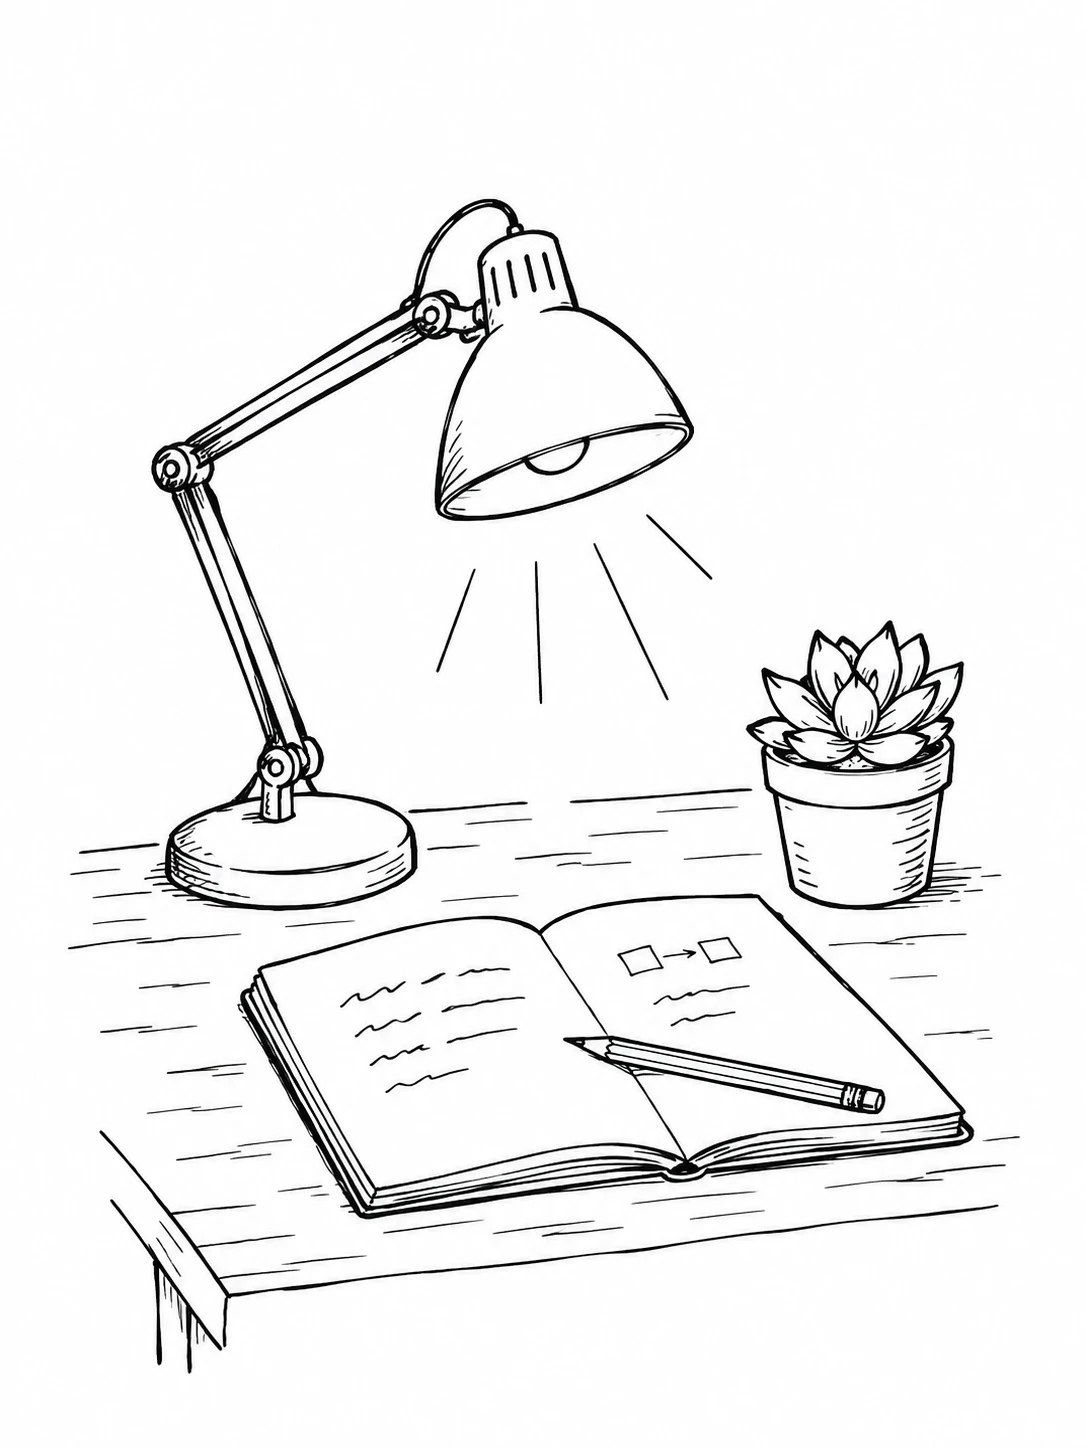
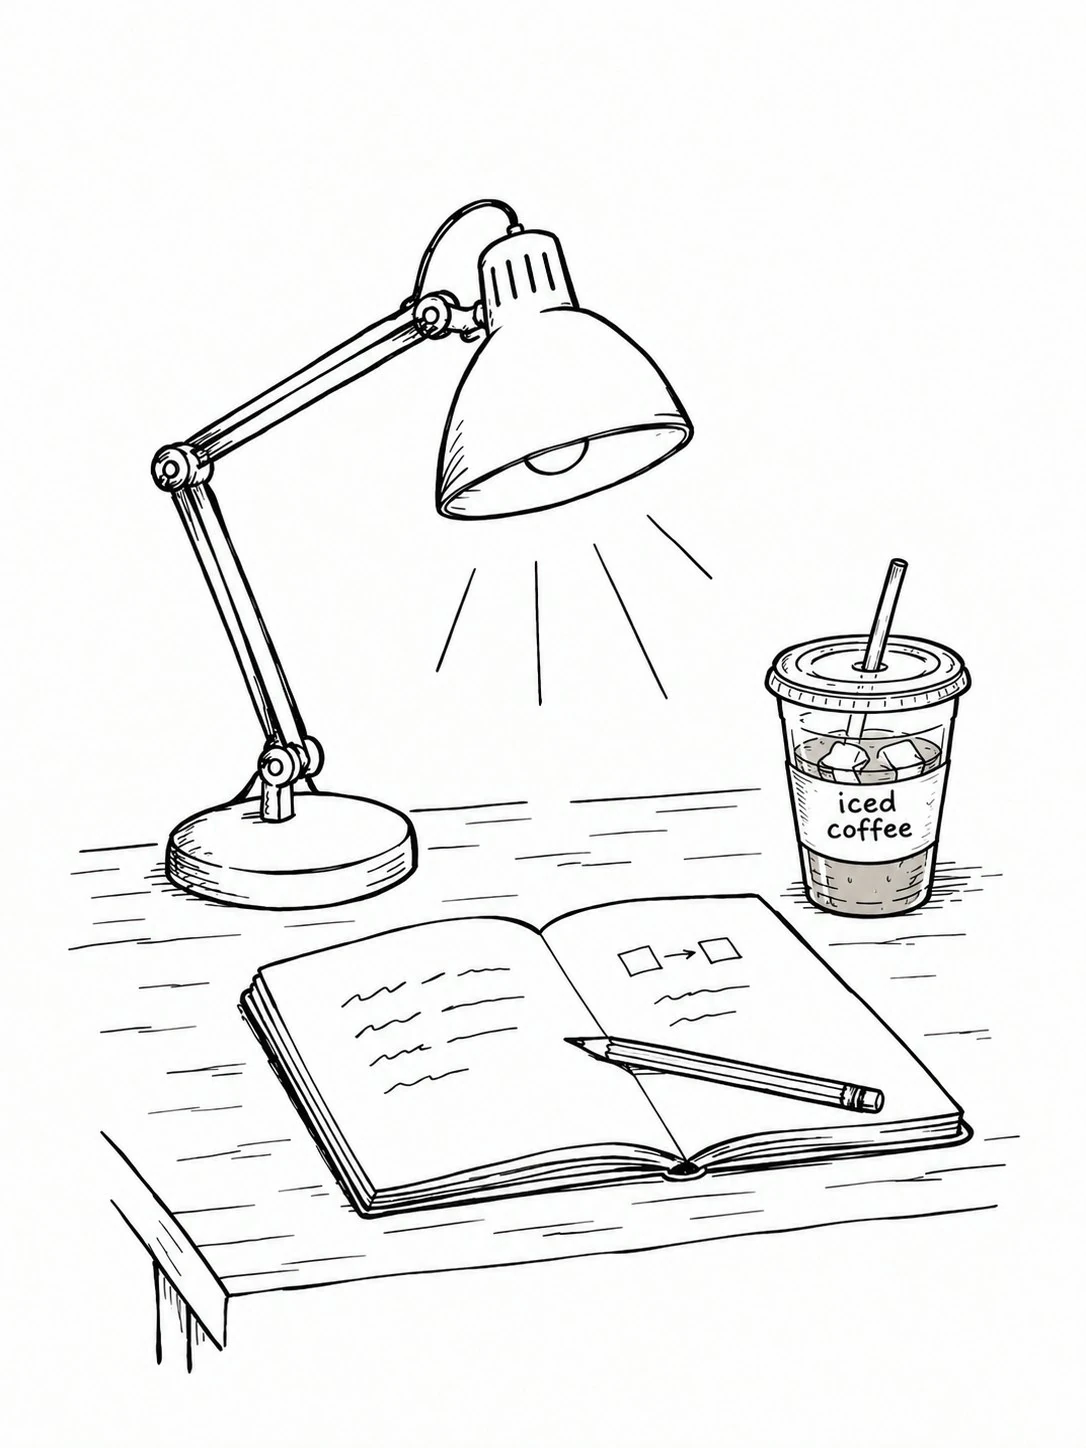
feat(about): iced coffee on the lamp's desk instead of a plant
Gabriel's updated drawing, retraced with scripts/trace-illustrations.py.
Same size and viewBox; the rays are still the only pen layer.

diff --git a/docs/v2/DESIGN-SPEC.md b/docs/v2/DESIGN-SPEC.md
@@ -465,11 +465,11 @@ The named path library (circle, underline variants, arrow variants, strike, box 
 - Four illustrations, generated by Gabriel in one ChatGPT conversation from a shared style block (black fine-liner, plain white background, no shading beyond sparse crosshatching, no text). #1 is the style anchor for the rest:
   1. Hero: a hand with a pencil drawing a box-and-arrow napkin, coffee mug alongside (2:3).
   2. Case study: two hands fanning Tong-its cards, stock pile and a meld (4:3).
-  3. About: a desk lamp over an open notebook (3:4).
+  3. About: a desk lamp over an open notebook, with an iced coffee beside it (3:4; the coffee replaced a plant on 2026-10-19).
   4. Contact and 404: a paper plane with a looping dotted path (3:2).
   5. Footer (added after the first four): asleep at the desk over a laptop, coffee and notebook, Gabriel's dog Bella asleep beside it, a "z" in `--pen` (3:2 source, cropped to about 2.5:1).
 - Pipeline: PNG → threshold → `potrace` to SVG (fill-only, no strokes, optimised with SVGO, target < 30 KB each) → `public/illustrations/<name>-ink.svg` (+ optional `<name>-pen.svg` for one purple element). Reject any generation with wrong hands or stray text.
-- As built: the sources live in `assets/illustrations/*.webp` and `scripts/trace-illustrations.py` retraces them (2x upscale, threshold 150, potrace `-t 6 -a 1 -O 0.8`, SVGO at integer precision). Its config holds the hand's cutout polygon, the pen polygons and the fill's closing line, in source pixels. Sizes: hand 8.9 + 1.2 KB, cards 30.2 KB, lamp 30.1 + 0.5 KB, plane 3.6 + 2.2 KB, nap 26.7 + 0.6 KB (about 14 KB gzipped for the largest). The hero hand drops the source's napkin and coffee mug, which would have doubled the real napkin card.
+- As built: the sources live in `assets/illustrations/*.webp` and `scripts/trace-illustrations.py` retraces them (2x upscale, threshold 150, potrace `-t 6 -a 1 -O 0.8`, SVGO at integer precision). Its config holds the hand's cutout polygon, the pen polygons and the fill's closing line, in source pixels. Sizes: hand 8.9 + 1.2 KB, cards 30.2 KB, lamp 32.2 + 0.5 KB, plane 3.6 + 2.2 KB, nap 26.7 + 0.6 KB (about 14 KB gzipped for the largest). The hero hand drops the source's napkin and coffee mug, which would have doubled the real napkin card.
 
 ### 10.4 Written name
 
